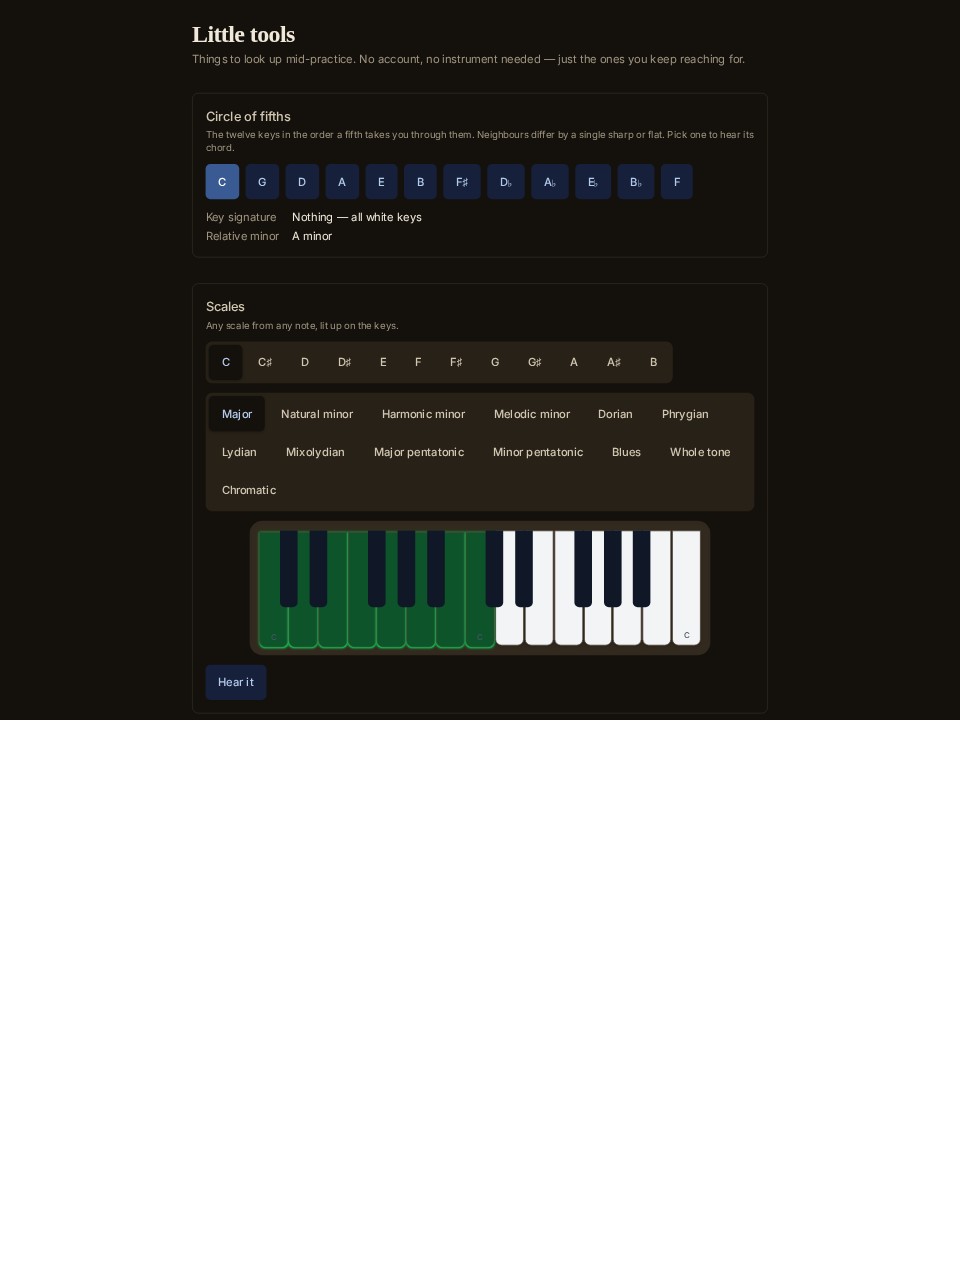
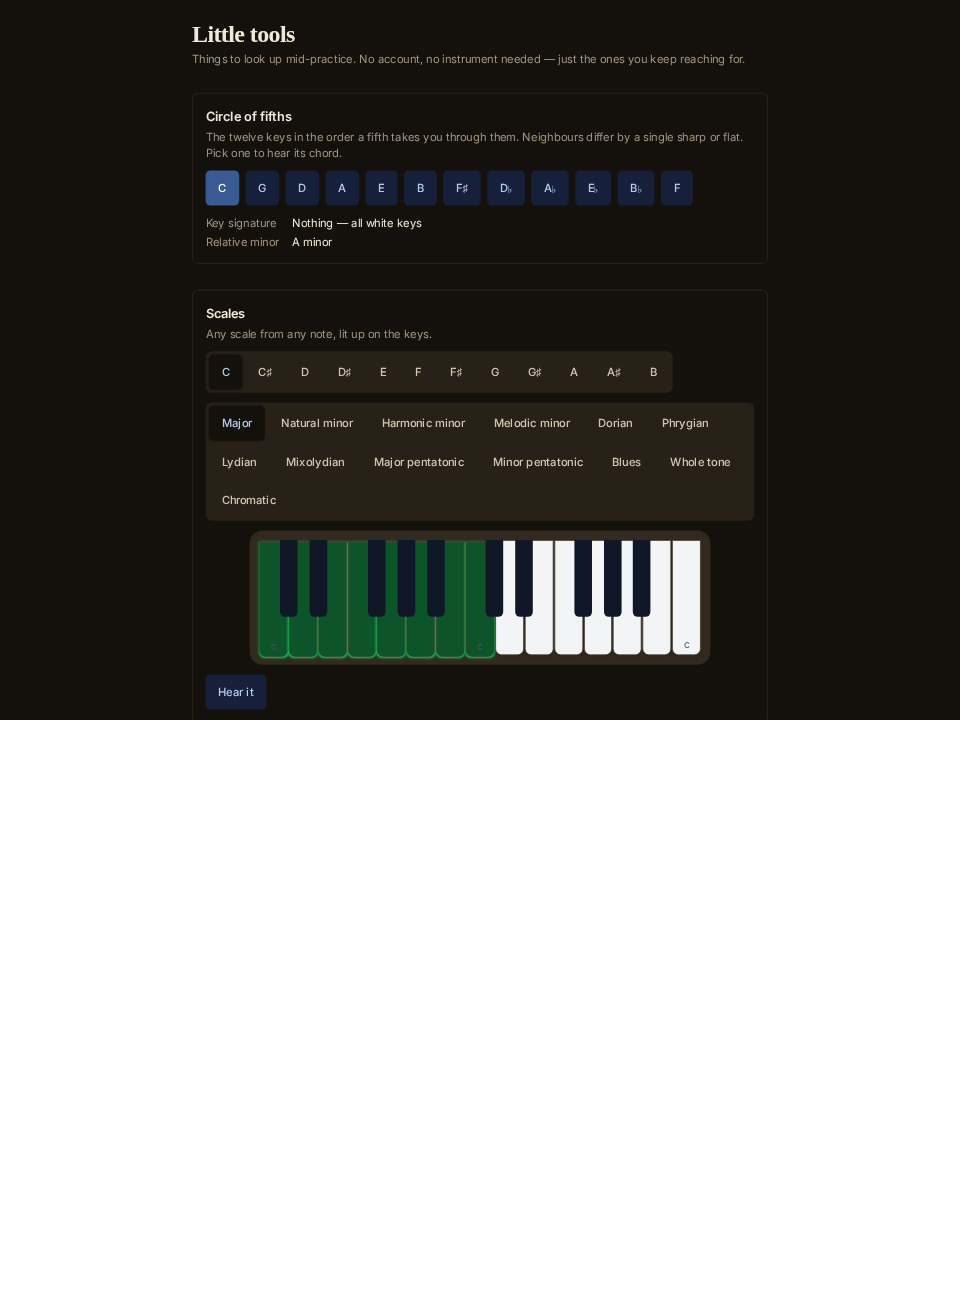
refactor(ui): one card, one card title
A lesson, a tool, a practice method, a badge and a stat were eight hand-rolled panels at
four radii and three grounds — so the "printed things square, touched things round" idea
the look rests on was not legible anywhere, because no two cards agreed on a corner. Card
is that panel: one radius, one hairline, one ground, and the caller picks only its padding.

The title inside a card had three ranks too (font-medium body, text-base semibold ink,
text-lg medium ink); it is the middle one everywhere now, and a method's "why" line reads
as body rather than as fine print beside the same-size line above it.

A composer's page draws the grade with GradeChip, the way the library and the play page
do, instead of its own flat tan "G1" — the only `rounded` in the tree. Its licence code
hides below sm: on a phone that column was taking width from sixty truncated titles, and
the piece's own page carries the licence in full.

diff --git a/app/routes/methods.tsx b/app/routes/methods.tsx
@@ -9,6 +9,7 @@ import { m } from "../paraglide/messages.js";
 import { getLocale } from "../paraglide/runtime.js";
 import type { Route } from "./+types/methods";
 import { PageHeader } from "../components/ui/pageHeader";
+import { Card } from "../components/ui/card";
 
 export function meta(_args: Route.MetaArgs) {
     return [
@@ -62,25 +63,26 @@ export default function MethodsRoute() {
 
             <ul className="space-y-4">
                 {METHODS.map((method) => (
-                    <li
-                        key={method.id}
-                        className="space-y-2 rounded-lg border border-line bg-surface p-4"
-                    >
-                        <div className="flex flex-wrap items-baseline gap-x-3">
-                            <h2 className="font-medium text-body">{NAME[method.id]()}</h2>
-                            <span className="text-xs text-muted">
-                                {m.methods_dose({ count: method.minutes })}
-                            </span>
-                        </div>
-                        <p className="text-sm text-body">{HOW[method.id]()}</p>
-                        <p className="text-xs text-muted">{WHY[method.id]()}</p>
-                        {/* Three of these are done with a control inside a run's set-up
+                    <li key={method.id}>
+                        <Card className="space-y-2">
+                            <div className="flex flex-wrap items-baseline gap-x-3">
+                                <h2 className="text-base font-semibold text-ink">
+                                    {NAME[method.id]()}
+                                </h2>
+                                <span className="text-xs text-muted">
+                                    {m.methods_dose({ count: method.minutes })}
+                                </span>
+                            </div>
+                            <p className="text-sm text-body">{HOW[method.id]()}</p>
+                            <p className="text-sm text-muted">{WHY[method.id]()}</p>
+                            {/* Three of these are done with a control inside a run's set-up
                             panel, so the honest offer is a piece to try them on rather
                             than "Try it" landing on a catalogue. The other three lead
                             straight to the thing itself. */}
-                        <Link className={buttonClasses("secondary")} to={method.href}>
-                            {method.href === "/library/" ? m.today_browse() : m.methods_try()}
-                        </Link>
+                            <Link className={buttonClasses("secondary")} to={method.href}>
+                                {method.href === "/library/" ? m.today_browse() : m.methods_try()}
+                            </Link>
+                        </Card>
                     </li>
                 ))}
             </ul>

diff --git a/app/routes/theory.tsx b/app/routes/theory.tsx
@@ -22,6 +22,7 @@ import { getLocale } from "../paraglide/runtime.js";
 import type { Route } from "./+types/theory";
 import { sectionHeadingClasses } from "../components/ui/classes";
 import { PageHeader } from "../components/ui/pageHeader";
+import { Card } from "../components/ui/card";
 
 export function meta(_args: Route.MetaArgs) {
     return [
@@ -129,21 +130,22 @@ function LessonCard({ lesson, index }: { lesson: Lesson; index: number }) {
     return (
         // The id is what the day's practice points at when it offers the next lesson,
         // so the reader lands on the lesson rather than on the top of the course.
-        <li
-            id={lesson.id}
-            className="scroll-mt-20 space-y-3 rounded-lg border border-line bg-surface p-4"
-        >
-            <div className="flex flex-wrap items-baseline gap-x-3">
-                <span className="font-mono text-xs tabular-nums text-muted">{index}</span>
-                <h3 className="font-medium text-body">{LESSON_TITLE[lesson.id]?.()}</h3>
-            </div>
-            <p className="max-w-prose text-sm leading-relaxed text-body">
-                {LESSON_BODY[lesson.id]?.()}
-            </p>
-            {/* Hearing the idea is what meeting the lesson means, so playing it is what
+        <li id={lesson.id} className="scroll-mt-20">
+            <Card className="space-y-3">
+                <div className="flex flex-wrap items-baseline gap-x-3">
+                    <span className="font-mono text-xs tabular-nums text-muted">{index}</span>
+                    <h3 className="text-base font-semibold text-ink">
+                        {LESSON_TITLE[lesson.id]?.()}
+                    </h3>
+                </div>
+                <p className="max-w-prose text-sm leading-relaxed text-body">
+                    {LESSON_BODY[lesson.id]?.()}
+                </p>
+                {/* Hearing the idea is what meeting the lesson means, so playing it is what
                 records it — there is nothing to tick, and the course never asks the
                 reader to mark their own homework. */}
-            <LessonDemo demo={lesson.demo} onPlay={() => theory.markMet(lesson.id)} />
+                <LessonDemo demo={lesson.demo} onPlay={() => theory.markMet(lesson.id)} />
+            </Card>
         </li>
     );
 }

diff --git a/app/routes/person.tsx b/app/routes/person.tsx
@@ -14,6 +14,7 @@ import { m } from "../paraglide/messages.js";
 import { getLocale } from "../paraglide/runtime.js";
 import type { Route } from "./+types/person";
 import { PageHeader } from "../components/ui/pageHeader";
+import { GradeChip } from "../components/features/scoreGrade";
 
 // The bundled catalogue as person pieces — available synchronously (no storage,
 // no network), so both meta() and the first render resolve the composer at
@@ -145,13 +146,16 @@ export default function PersonPage() {
                                 <span className="min-w-0 flex-1 truncate font-medium">
                                     {piece.title}
                                 </span>
+                                {/* The grade as the app draws it everywhere else, and the
+                                    licence only where there is room: on a phone the title
+                                    is what a reader is scanning for, and a licence code on
+                                    every row of sixty takes the width the titles need. It
+                                    is on the piece's own page in full. */}
                                 <span className="flex shrink-0 items-center gap-2 text-xs text-muted">
-                                    {piece.grade !== undefined && (
-                                        <span className="rounded bg-subtle px-1.5 py-0.5 font-medium tabular-nums">
-                                            G{piece.grade}
-                                        </span>
+                                    {piece.grade !== undefined && <GradeChip grade={piece.grade} />}
+                                    {piece.license && (
+                                        <span className="hidden sm:inline">{piece.license}</span>
                                     )}
-                                    {piece.license && <span>{piece.license}</span>}
                                 </span>
                             </Link>
                         </li>

diff --git a/app/components/ui/card.tsx b/app/components/ui/card.tsx
@@ -1,0 +1,36 @@
+// SPDX-FileCopyrightText: The Plinky Authors
+// SPDX-License-Identifier: AGPL-3.0-or-later
+
+import type { ReactNode } from "react";
+
+// A bordered panel: a lesson, a tool, a practice method, a badge, a stat.
+//
+// Eight of these were hand-rolled at four different radii and three grounds, so the
+// "printed things square, touched things round" idea the look rests on was not legible
+// anywhere — a card's corner meant nothing, because every card had a different one. One
+// radius, one hairline, one ground; a caller chooses only its padding and what it holds.
+//
+// `quiet` drops the border for a panel that groups without framing, and keeps everything
+// else, so the two never drift into two different components.
+
+const PAD = { snug: "p-3", normal: "p-4", roomy: "p-6" } as const;
+
+export function Card({
+    pad = "normal",
+    quiet = false,
+    className = "",
+    children,
+}: {
+    pad?: keyof typeof PAD;
+    quiet?: boolean;
+    className?: string;
+    children: ReactNode;
+}) {
+    return (
+        <div
+            className={`rounded-lg bg-surface ${PAD[pad]} ${quiet ? "" : "border border-line"} ${className}`}
+        >
+            {children}
+        </div>
+    );
+}

diff --git a/app/routes/tools.tsx b/app/routes/tools.tsx
@@ -25,6 +25,7 @@ import { m } from "../paraglide/messages.js";
 import { getLocale } from "../paraglide/runtime.js";
 import type { Route } from "./+types/tools";
 import { PageHeader } from "../components/ui/pageHeader";
+import { Card } from "../components/ui/card";
 
 export function meta(_args: Route.MetaArgs) {
     return [
@@ -57,13 +58,13 @@ function Panel({
     children: React.ReactNode;
 }) {
     return (
-        <section className="space-y-3 rounded-lg border border-line bg-surface p-4">
+        <Card className="space-y-3">
             <div className="space-y-1">
-                <h2 className="font-medium text-body">{title}</h2>
-                <p className="text-xs text-muted">{hint}</p>
+                <h2 className="text-base font-semibold text-ink">{title}</h2>
+                <p className="text-sm text-muted">{hint}</p>
             </div>
             {children}
-        </section>
+        </Card>
     );
 }
 

diff --git a/NEWS.md b/NEWS.md
@@ -107,6 +107,13 @@ So a quaver in the right hand emptied as slowly as the whole note under it in th
 long after your right hand had moved on. Each key now drains on the length that is
 actually written for it.
 
+**Cards look like each other.** A lesson, a tool, a way to practise and a badge were four
+hand-drawn panels at four different corner radii, so a card's shape meant nothing. They
+share one now, with one hairline and one ground, and the title inside a card is one rank
+rather than three. A composer's page also draws the grade the way every other list does,
+and drops the licence code on a phone, where sixty rows of "CC0-1.0" were taking the width
+the titles needed.
+
 **Your recordings have a home.** A take was only ever reachable from the piece it was
 recorded on — you had to remember which piece, find it, open it and switch tabs, and if
 the title had gone from your head the recording was gone with it. Music's second tab now
